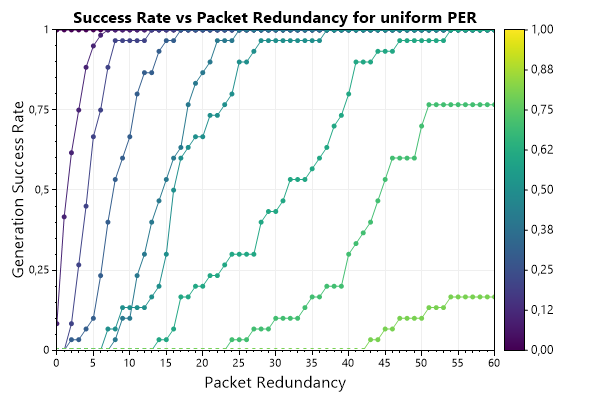
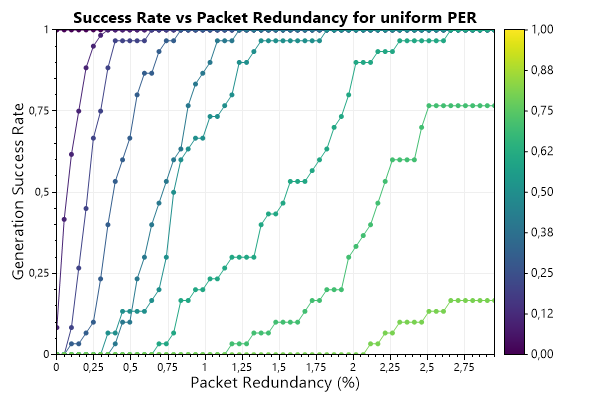
Scale the xAxis to percentage for better abstraction

diff --git a/LoraGateway.Terminal/Services/ExperimentPlotService.cs b/LoraGateway.Terminal/Services/ExperimentPlotService.cs
@@ -25,6 +25,8 @@ public class ExperimentPlotService
         NewLine = Environment.NewLine,
     };
 
+    const double MaxRedundancyScale = 3.0;
+
     public string GetPlotFileName()
     {
         return "experiment.png";
@@ -157,7 +159,7 @@ public class ExperimentPlotService
         {
             // Build up a cumulative distro and histogram of redundancy vs successes
             var successRedundancyCumul = new Dictionary<uint, List<GenSuccess>>();
-            var successThresholdHistogram = new uint [maxRedundancy];
+            var successThresholdHistogram = new uint [maxRedundancy + 1];
             foreach (var genSample in per)
             {
                 // sample.Success
@@ -205,13 +207,37 @@ public class ExperimentPlotService
             };
         });
 
-        var xAxis = Enumerable.Range(0, (int)maxRedundancy + 1).Select(v => (double)v).ToArray();
+        var xAxis = Enumerable
+            .Range(0, (int)maxRedundancy + 1)
+            .Select(v => MaxRedundancyScale * v / ((int)maxRedundancy + 1.0))
+            .ToArray();
 
         SaveSuccessRatePerPlots(xAxis, perPlotsCumul.ToList());
     }
 
-    private void SaveSuccessRatePerPlots(double[] xAxis, List<PerSuccessRates> ySuccessRate)
+    private void SaveSuccessRatePerPlots(double[] xAxisPercentage, List<PerSuccessRates> ySuccessRate)
     {
+        var plt = new Plot(600, 400);
+        foreach (var perPlot in ySuccessRate)
+        {
+            var per100 = perPlot.Per * 100.0f;
+            var c = ScottPlot.Drawing.Colormap.Viridis.GetColor(perPlot.Per);
+            plt.AddScatter(xAxisPercentage, perPlot.SuccessCumulative, label: $"PER {per100:F1}%", color: c);
+        }
+
+        // plt.Legend();
+        var cmap = ScottPlot.Drawing.Colormap.Viridis;
+        plt.AddColorbar(cmap);
+        plt.SetAxisLimits(0, xAxisPercentage.Max(), 0.0f, 1.0f);
+        plt.Title("Success Rate vs Packet Redundancy for uniform PER");
+        plt.YLabel("Generation Success Rate");
+        plt.XLabel("Packet Redundancy (%)");
+        plt.SaveFig(GetPlotFilePath(GetPlotMultiPerSuccessRateFileName()));
+    }
+
+    private void SaveSuccessThresholdPerHistograms(double[] xAxis, List<PerSuccessRates> ySuccessRate)
+    {
+        // TODO wip
         var plt = new Plot(600, 400);
         foreach (var perPlot in ySuccessRate)
         {
@@ -224,7 +250,7 @@ public class ExperimentPlotService
         var cmap = ScottPlot.Drawing.Colormap.Viridis;
         plt.AddColorbar(cmap);
         plt.SetAxisLimits(0, xAxis.Max(), 0.0f, 1.0f);
-        plt.Title("Success Rate vs Packet Redundancy for uniform PER");
+        plt.Title("Success Threshold Histogram vs Packet Redundancy for uniform PER");
         plt.YLabel("Generation Success Rate");
         plt.XLabel("Packet Redundancy");
         plt.SaveFig(GetPlotFilePath(GetPlotMultiPerSuccessRateFileName()));
